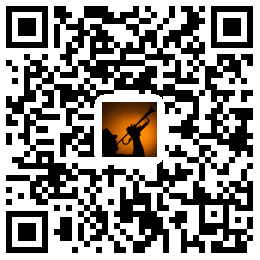
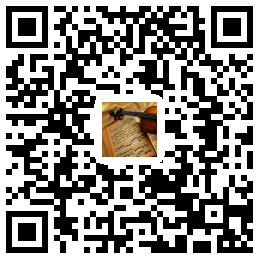
m

diff --git a/20th/privacypolicy.html b/20th/privacypolicy.html
@@ -27,8 +27,9 @@
     }
   </style>
   <meta data-vue-meta="true" data-vmid="keywords" name="keywords" content="iOS,服务器" />
-  <meta data-vue-meta="true" data-vmid="description" name="description" content="本软件尊重并保护所有使用服务用户的个人隐私权。为了给您提供更准确、更有个性化的服务，本软件会按照本隐私权政策的规定使用和披露您的个人信息。但本软件将以高度的勤勉、审慎义务对待这些信息。除本隐私权政策另有规定外，在未征得您事先许可的情况下，本软件不会将这些信息对" />
-  <title data-vue-meta="true">Gallerix隐私政策</title>
+  <meta data-vue-meta="true" data-vmid="description" name="description"
+    content="本软件尊重并保护所有使用服务用户的个人隐私权。为了给您提供更准确、更有个性化的服务，本软件会按照本隐私权政策的规定使用和披露您的个人信息。但本软件将以高度的勤勉、审慎义务对待这些信息。除本隐私权政策另有规定外，在未征得您事先许可的情况下，本软件不会将这些信息对" />
+  <title data-vue-meta="true">100 Best 20th Century Classics隐私政策</title>
 </head>
 
 <body>
@@ -41,9 +42,11 @@
             <article itemscope="itemscope" itemtype="http://schema.org/Article" class="article" data-v-5fb28c70>
 
               <!---->
-              <h1 class="article-title" data-v-5fb28c70>Gallerix隐私政策</h1>
+              <h1 class="article-title" data-v-5fb28c70>100 Best 20th Century Classics隐私政策</h1>
               <div data-id="5bc05485f265da0a8e6da94d" itemprop="articleBody" class="article-content" data-v-5fb28c70>
-                <p>本软件尊重并保护所有使用服务用户的个人隐私权。为了给您提供更准确、更有个性化的服务，本软件会按照本隐私权政策的规定使用和披露您的个人信息。但本软件将以高度的勤勉、审慎义务对待这些信息。除本隐私权政策另有规定外，在未征得您事先许可的情况下，本软件不会将这些信息对外披露或向第三方提供。本软件会不时更新本隐私权政策。您在同意本软件服务使用协议之时，即视为您已经同意本隐私权政策全部内容。本隐私权政策属于本软件服务使用协议不可分割的一部分。</p>
+                <p>
+                  本软件尊重并保护所有使用服务用户的个人隐私权。为了给您提供更准确、更有个性化的服务，本软件会按照本隐私权政策的规定使用和披露您的个人信息。但本软件将以高度的勤勉、审慎义务对待这些信息。除本隐私权政策另有规定外，在未征得您事先许可的情况下，本软件不会将这些信息对外披露或向第三方提供。本软件会不时更新本隐私权政策。您在同意本软件服务使用协议之时，即视为您已经同意本隐私权政策全部内容。本隐私权政策属于本软件服务使用协议不可分割的一部分。
+                </p>
                 <p>1.适用范围</p>
                 <p>在您使用本软件网络服务，本软件自动接收并记录的您的手机上的信息，包括但不限于您的健康数据、使用的语言、访问日期和时间、软硬件特征信息及您需求的网页记录等数据；</p>
                 <p>2.信息的使用</p>
@@ -63,7 +66,9 @@
                 <p>4.信息存储和交换</p>
                 <p>本软件收集的有关您的信息和资料将保存在本软件及（或）其关联公司的服务器上，这些信息和资料可能传送至您所在国家、地区或本软件收集信息和资料所在地的境外并在境外被访问、存储和展示。</p>
                 <p>5.信息安全</p>
-                <p>在使用本软件网络服务进行网上交易时，您不可避免的要向交易对方或潜在的交易对方披露自己的个人信息，如联络方式或者邮政地址。请您妥善保护自己的个人信息，仅在必要的情形下向他人提供。如您发现自己的个人信息泄密，请您立即联络本软件客服，以便本软件采取相应措施。</p>
+                <p>
+                  在使用本软件网络服务进行网上交易时，您不可避免的要向交易对方或潜在的交易对方披露自己的个人信息，如联络方式或者邮政地址。请您妥善保护自己的个人信息，仅在必要的情形下向他人提供。如您发现自己的个人信息泄密，请您立即联络本软件客服，以便本软件采取相应措施。
+                </p>
               </div>
             </article>
             <!---->

diff --git a/20th/index.html b/20th/index.html
@@ -21,7 +21,7 @@
     <link rel="stylesheet" type="text/css" href="css/bootstrap.min.css" />
     <link rel="stylesheet" type="text/css" href="css/global.css" />
     <link rel="stylesheet" type="text/css" href="css/base.css" />
-    <title>Jazz Classics Music</title>
+    <title>100 Best 20th Century Classics</title>
 
 </head>
 
@@ -57,7 +57,30 @@
             <h2>App introduction</h2>
             <div class="dsp margin-bottom60">
                 <section>
-                    Jazz is the epitome of cool; It is a music of infinite variety and timeless appeal. This set offers just that! This collection features the very best in jazz across the ages: from cool swing to burning Latin; husky vocals to smooth ballads; from the new faces on the scene to the classic artists of yesteryear. This set representing different styles: Classic Jazz Vocals; Swing Classics; Latin Jazz; Relaxing Jazz; Jazz Ballads and Legends of jazz.
+                    This set covers many of the most popular works composed between 1900 and 1999, as well as representative pieces by composers who broadened the concept of classical music during that period and those who pushed its boundaries to the limits.
+
+CD 1: The Last of the Romantics
+The first disc opens with an extract from Rachmaninov’s 2nd Piano Concerto, written in 1901. This is followed by favourite works by Prokofiev, Khachaturian, Falla, Holst, Elgar and Vaughan Williams, all of which look back to the romantic style of the 19th century. The disc also includes part of the slow movement of the most successful concerto written during the 20th century, the Concierto de Aranjuez by Rodrigo.
+
+CD 2: Innovators
+
+The composers on this disc include some who broke new ground in tonality and form at the beginning of the century, such as Stravinsky and the Second Viennese school of Webern, Berg and Schoenberg, and others who continued to use the more traditional methods of composition but who wrote in a more advanced style such as Bartók, Britten, Hindemith and Walton.
+
+CD 3: Brave New World
+
+The works heard here range across the incredible proliferation of musical language during the last 50 years, from hard-edged modernism to chilled-out minimalism, religiously inspired and otherwise, and include pieces by the older generation of composers like Messiaen, Henze, Lutoslawski and Takemitsu, as well as more recent compositions by Turnage, Tavener, Gubaidulina, Adès and Knussen.
+
+CD 4: America
+
+The large and prolific school of American composers active during the 20th century is represented by some extremely popular pieces like Barber’s Adagio for Strings, Gershwin’s Rhapsody in Blue and Copland’s Fanfare for the Common Man, as well as more adventurous works by Ives, Cage, Reich, Carter and Adams.
+
+CD 5: Instrumental and Chamber
+
+This CD presents a number of popular pieces for piano, violin and guitar by Falla, Scriabin, Kreisler, Pärt and Villa-Lobos, followed by chamber works such as Schoenbeg’s Verklärte Nacht, Schnittke’s Menuet and Ravel’s String Quartet.
+
+CD 6: Choral and Vocal
+
+The final disc begins with one of the 20th century’s most successful choral works, Orff’s Carmina Burana. This is followed by extracts from other choral pieces by Boulez, Pärt, Tavener, Rutter and McCartney as well as vocal compositions by Rachmaninov, Berio and Lloyd Webber. The set concludes with three romantic operatic arias by Korngold and Puccini, ending with a spectacular performance of ‘Nessun dorma’ from Puccini’s final opera, Turandot.
                 </section>
             </div>
         </div>
